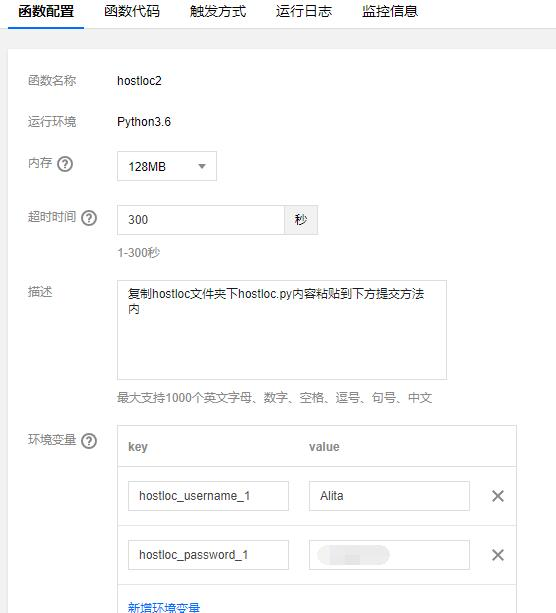
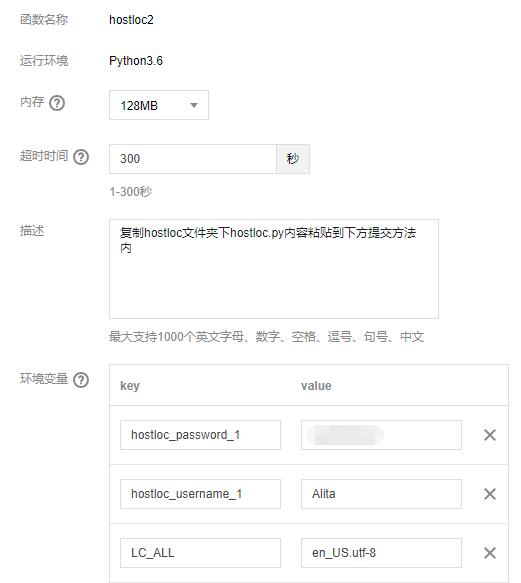
update readme.md fix tencent env encoding error

diff --git a/hostloc/hostloc.py b/hostloc/hostloc.py
@@ -108,7 +108,7 @@ def hostloc_checkin(account):
     s.headers.update(headers)
     logger.info('使用IP: {}'.format(get_ip(proxies=proxies)))
     login_url = 'https://www.hostloc.com/member.php?mod=logging&action=login&loginsubmit=yes&infloat=yes&lssubmit=yes&inajax=1'
-    s.post(login_url, {"username": username, 'password': password}, proxies=proxies)
+    s.post(login_url, {'username': username, 'password': password}, proxies=proxies)
     time.sleep(randint(1, 5))
     user_info = s.get('https://www.hostloc.com/home.php?mod=spacecp&ac=credit', proxies=proxies).text
     _m = re.search(r'金钱: </em>(\d+).+?</li>', user_info)

diff --git a/README.md b/README.md
@@ -103,6 +103,7 @@ Travis运行效果图：
 * 由于腾讯云有一定的免费时间额度，这里我默认把每个账号完成后等待时间改为60秒，如果你要改的话，修改下图172行interval=60的数字60为你想要的等待时间，单位秒
    ![](/docs/img/hostloc_tencent13.jpg)
 * 编辑函数配置，超时时间：300，添加环境变量，key填hostloc_username_1和hostloc_password_1，value填帐号和密码，有代理添加代理，Name填代理方式hostloc_http_1或hostloc_https_1，Value填上述提到的代理，多账号以此类推  
+**注意**：用户名为**中文**时，如下图所示添加一个环境变量(key: LC_ALL, value: en_US.utf-8)，否则会报错  
    示例图为我添加的小号（Alita）  
    ![](/docs/img/hostloc_tencent14.jpg)
 * 添加触发方式，触发方式：定时触发，触发周期：每天，填入参数：否，立即启用，保存
